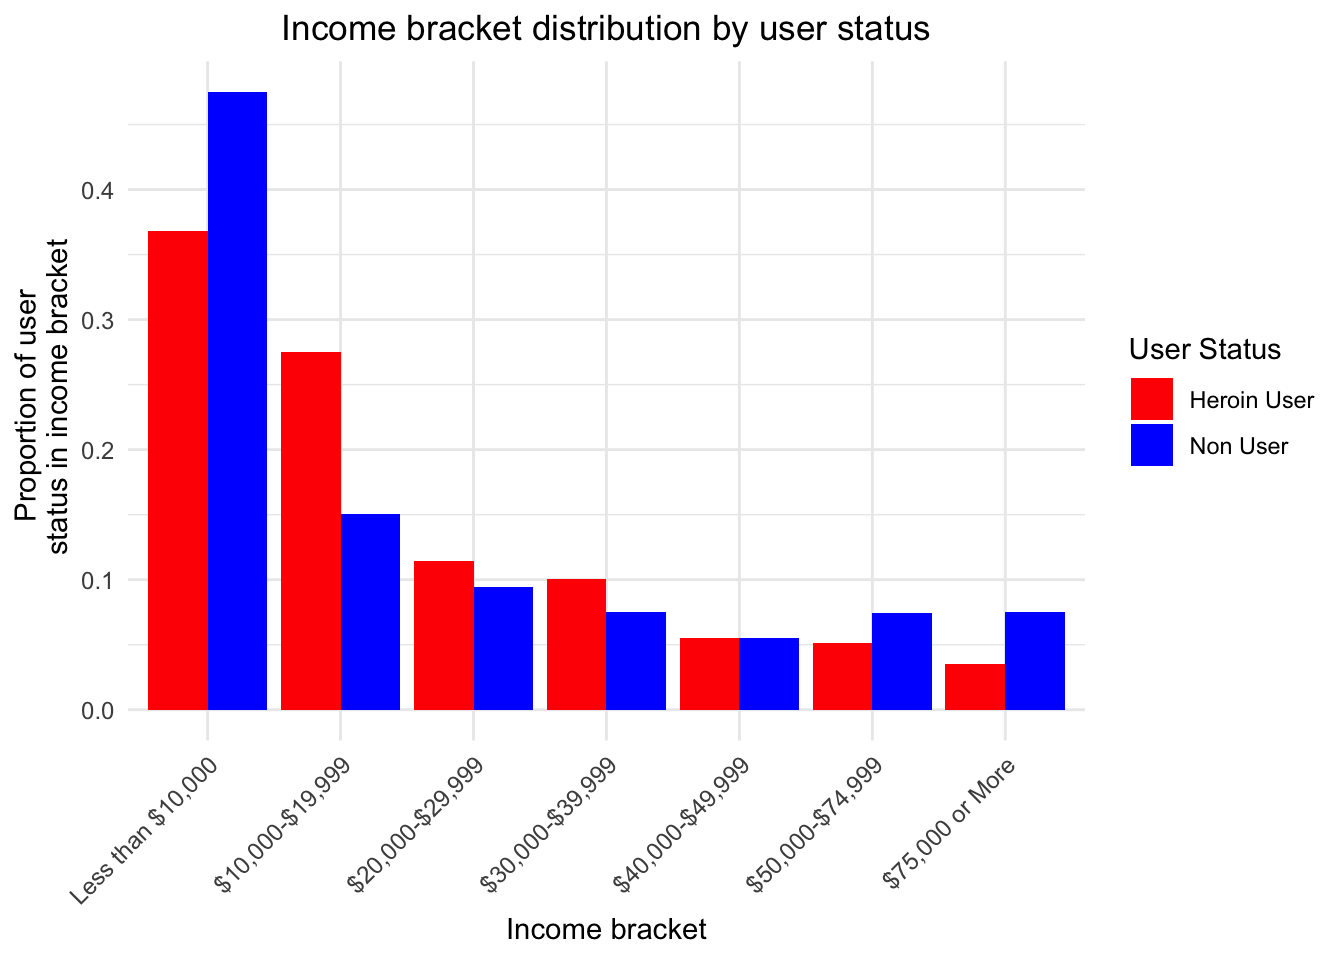
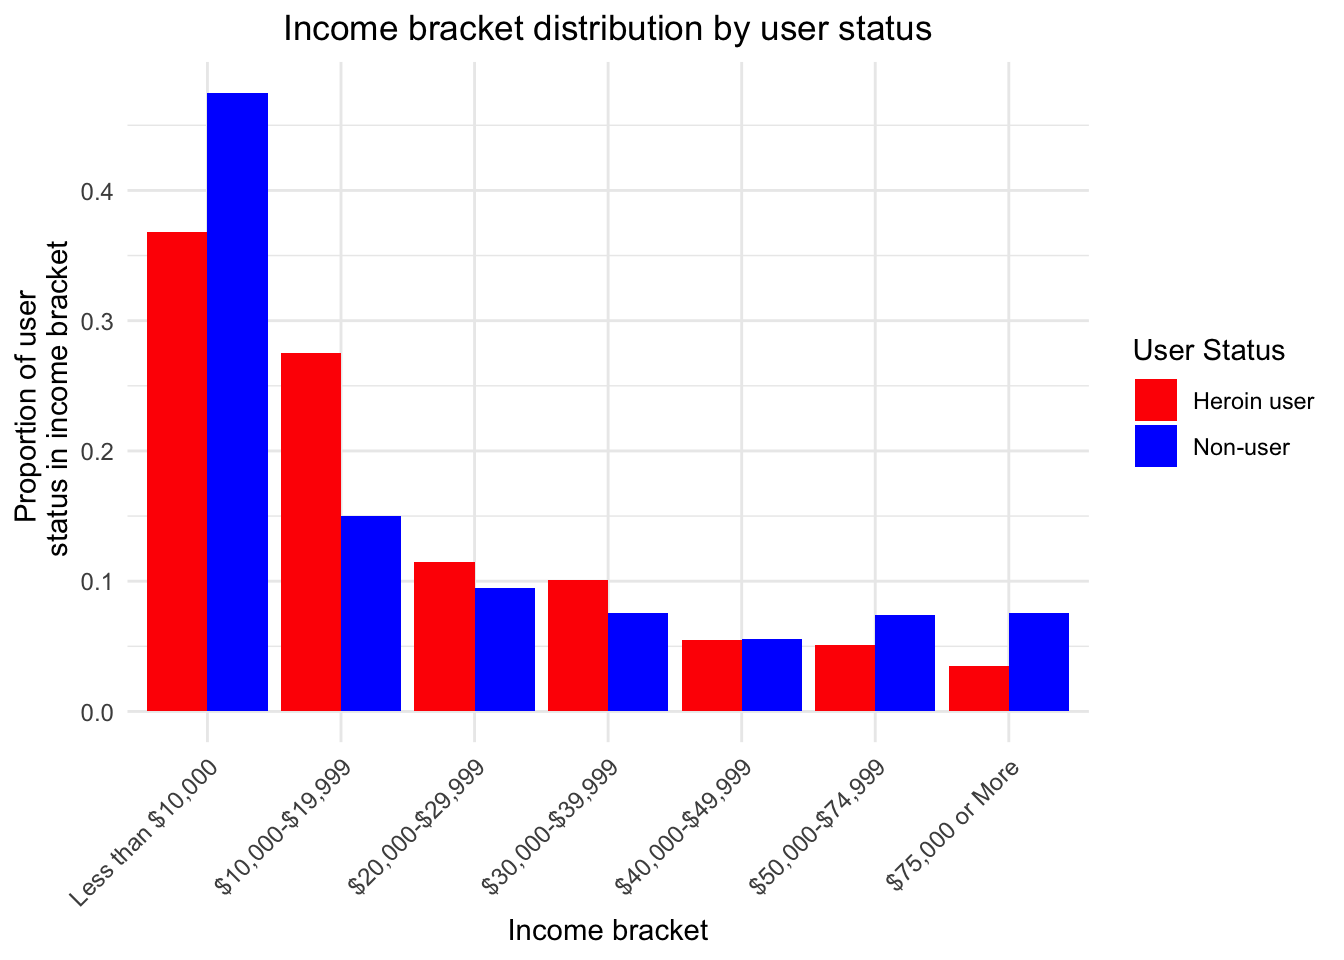
regenerate figs

diff --git a/bar_graphs.html b/bar_graphs.html
@@ -1,12 +1,12 @@
 <!DOCTYPE html>
 
-<html xmlns="http://www.w3.org/1999/xhtml">
+<html>
 
 <head>
 
 <meta charset="utf-8" />
-<meta http-equiv="Content-Type" content="text/html; charset=utf-8" />
 <meta name="generator" content="pandoc" />
+<meta http-equiv="X-UA-Compatible" content="IE=EDGE" />
 
 
 
@@ -84,7 +84,6 @@ code {
 }
 img {
   max-width:100%;
-  height: auto;
 }
 .tabbed-pane {
   padding-top: 12px;
@@ -233,6 +232,7 @@ $(document).ready(function () {
   border: none;
   display: inline-block;
   border-radius: 4px;
+  background-color: transparent;
 }
 
 .tabset-dropdown > .nav-tabs.nav-tabs-open > li {
@@ -244,18 +244,6 @@ $(document).ready(function () {
   display: none;
 }
 </style>
-
-<script>
-$(document).ready(function () {
-  window.buildTabsets("TOC");
-});
-
-$(document).ready(function () {
-  $('.tabset-dropdown > .nav-tabs > li').click(function () {
-    $(this).parent().toggleClass('nav-tabs-open')
-  });
-});
-</script>
 
 <!-- code folding -->
 
@@ -321,11 +309,11 @@ $(document).ready(function () {
 
 <div id="introduction" class="section level2">
 <h2>Introduction</h2>
-<p>In this analysis, we<a href="#fn1" class="footnoteRef" id="fnref1"><sup>1</sup></a> were interested in exploring how income changes with heroin use. We used the National Survey on Drug Use and Health <a href="#fn2" class="footnoteRef" id="fnref2"><sup>2</sup></a> as a source for data on self-reported heroin use and self-reported income bracket<a href="#fn3" class="footnoteRef" id="fnref3"><sup>3</sup></a>. Because these data are self-reported, any inference should be treated with caution.</p>
+<p>In this analysis, we<a href="#fn1" class="footnote-ref" id="fnref1"><sup>1</sup></a> were interested in exploring how income changes with heroin use. We used the National Survey on Drug Use and Health <a href="#fn2" class="footnote-ref" id="fnref2"><sup>2</sup></a> as a source for data on self-reported heroin use and self-reported income bracket<a href="#fn3" class="footnote-ref" id="fnref3"><sup>3</sup></a>. Because these data are self-reported, any inference should be treated with caution.</p>
 </div>
 <div id="data" class="section level2">
 <h2>Data</h2>
-<p>The data are from the National Survey on Drug Use and Health , which is conducted annually by the Substance Abuse and Mental Health Services Administration (SAMHSA), an agency in the U.S. Department of Health and Human Services (DHHS). More information about this survey can be found at <a href="http://www.icpsr.umich.edu/icpsrweb/ICPSR/series/64">ICPSR’s data archive page</a>.</p>
+<p>The data are from the National Survey on Drug Use and Health, which is conducted annually by the Substance Abuse and Mental Health Services Administration (SAMHSA), an agency in the U.S. Department of Health and Human Services (HHS). More information about this survey can be found at <a href="http://www.icpsr.umich.edu/icpsrweb/ICPSR/series/64">ICPSR’s data archive page</a>.</p>
 <pre class="r"><code># Libraries
 library(tidyverse)
 library(forcats)
@@ -333,7 +321,7 @@ library(gridExtra)
 library(ggpubr)
 
 # Data
-load(&quot;36361-0001-Data.rda&quot;) # available in the github repo
+load(&quot;data/36361-0001-Data.rda&quot;) # available in the github repo
 data &lt;- da36361.0001
 remove(da36361.0001)</code></pre>
 </div>
@@ -341,36 +329,31 @@ remove(da36361.0001)</code></pre>
 <h2>Data Manipulation</h2>
 <p>We excluded anyone that did not respond to the income or heroin-use questions.</p>
 <pre class="r"><code>#Defining user status
-heroin_user &lt;- filter(data, HEREVER == &quot;(1) Yes&quot;)
-non_user &lt;- filter(data, HEREVER == &quot;(2) No&quot;)
 
-#Combining data
-heroin_user$user_status &lt;- &quot;Heroin User&quot;
-non_user$user_status &lt;- &quot;Non User&quot;
-combined_data &lt;- rbind(heroin_user,non_user)
-
-# Take percentages in each income bracket across heroin status
-summary_data_non_user &lt;- summarize(group_by(non_user, IRPINC3, user_status),
-                                count=n())
-summary_data_non_user$percent &lt;- summary_data_non_user$count/sum(summary_data_non_user$count)
-
-summary_data_heroin_user &lt;- summarize(group_by(heroin_user, IRPINC3, user_status),
-                                  count=n())
-summary_data_heroin_user$percent &lt;- summary_data_heroin_user$count/sum(summary_data_heroin_user$count)
-
-summary_data &lt;- rbind(summary_data_non_user, summary_data_heroin_user)</code></pre>
+combined_data &lt;- data %&gt;% 
+  filter(!is.na(HEREVER)) %&gt;%   # remove NAs
+  mutate(user = if_else(HEREVER == &quot;(1) Yes&quot;, 1, 0),
+         non_user = if_else(HEREVER == &quot;(2) No&quot;, &#39;Non-user&#39;, &#39;Heroin user&#39;)) %&gt;% # create a new boolean value for use
+  group_by(IRPINC3, user, non_user) %&gt;%   # first take the sum in each cell
+  select(user, non_user, IRPINC3) %&gt;% 
+  summarize(count = n())</code></pre>
+<pre><code>## `summarise()` regrouping output by &#39;IRPINC3&#39;, &#39;user&#39; (override with `.groups` argument)</code></pre>
+<pre class="r"><code>summary_by_income &lt;- combined_data %&gt;% 
+  ungroup() %&gt;% 
+  group_by(user, non_user) %&gt;%      # then regroup to take the mean across income
+  mutate(p = count / sum(count))</code></pre>
 <p>We first classified our participants by their response to the question “Have you ever used heroin?” A participant who responded <code>(1) Yes</code> is categorized as a <code>heroin_user</code> and a participant who responded <code>(2) No</code> is categorized as a <code>non_user</code>. We then found the percentage of total heroin users and non-users in each income bracket.</p>
 </div>
 <div id="visual-display" class="section level2">
 <h2>Visual Display</h2>
 <pre class="r"><code>#Side-by-Side Bar Plot
-ggplot(summary_data)+
+ggplot(summary_by_income)+
     labs(title = &quot;Income bracket distribution by user status&quot;,
        x=&quot;Income bracket&quot;, 
        y= &quot;Proportion of user \n status in income bracket&quot;)+
   geom_bar(aes(x=IRPINC3,
-               fill=user_status,
-               y=percent),
+               fill=as.factor(non_user),
+               y=p),
            position=&quot;dodge&quot;,
            stat=&quot;identity&quot;)+ 
   scale_fill_manual(values=rep(c(&quot;red&quot;,&quot;blue&quot;)),
@@ -382,8 +365,8 @@ ggplot(summary_data)+
         axis.text.y=element_text(size = 9))</code></pre>
 <p><img src="bar_graphs_files/figure-html/side_by_side-1.png" width="672" /></p>
 <pre class="r"><code>#Stacked bar plot
-ggplot(combined_data)+
-  geom_bar(aes(x=user_status,fill=IRPINC3),position=&quot;fill&quot;)+
+ggplot(summary_by_income, aes(x=as.factor(non_user),fill = IRPINC3, y = p))+
+  geom_bar(position=&quot;fill&quot;, stat=&quot;identity&quot;)+
   scale_fill_brewer(palette=&quot;RdYlBu&quot;,direction=1,
                     name=&quot;Income Bracket&quot;)+
   labs(x=&quot;&quot;,y=&quot;Proportion per income bracket \n by user status&quot;,
@@ -392,20 +375,18 @@ ggplot(combined_data)+
   theme_minimal()</code></pre>
 <p><img src="bar_graphs_files/figure-html/stacked_bar_plot-1.png" width="672" /></p>
 <pre class="r"><code>#Bar Chart
-bar_chart_heroin_user &lt;- 
-  ggplot(heroin_user)+
-  geom_bar(aes(x=IRPINC3,fill=IRPINC3))+
+bar_chart_heroin_user &lt;- ggplot(combined_data %&gt;% filter(non_user == &#39;Heroin user&#39;))+
+  geom_bar(aes(x=IRPINC3,fill=IRPINC3, y = count), stat = &#39;identity&#39;)+
   coord_flip()+
   labs(x=&#39;Heroin users&#39;, y=&#39;Number of respondents&#39;)+
   scale_fill_brewer(palette=&quot;RdYlBu&quot;,direction=1,
                     name=&quot;Income Level&quot;)+
   theme_minimal()
 
-bar_chart_non_user &lt;- 
-  ggplot(non_user)+
-  geom_bar(aes(x=IRPINC3, fill=IRPINC3))+
+bar_chart_non_user &lt;- ggplot(combined_data %&gt;% filter(non_user == &#39;Non-user&#39;))+
+  geom_bar(aes(x=IRPINC3,fill=IRPINC3, y = count), stat = &#39;identity&#39;)+
   coord_flip()+
-  labs(x=&#39;Non-users&#39;, y=&#39;Number of respondents&#39;)+
+  labs(x=&#39;Heroin users&#39;, y=&#39;Number of respondents&#39;)+
   scale_fill_brewer(palette=&quot;RdYlBu&quot;,direction=1,
                     name=&quot;Income Level&quot;)+
   theme_minimal()
@@ -422,9 +403,9 @@ ggarrange(bar_chart_heroin_user, bar_chart_non_user, nrow=2, common.legend = T) 
 <div class="footnotes">
 <hr />
 <ol>
-<li id="fn1"><p>This page is a revision of a lab originally completed with Evie Boland, Joshua Gatcke, and Miguel Ojeda.<a href="#fnref1">↩</a></p></li>
-<li id="fn2"><p>A brief summary of the survey and its methodology is available <a href="https://nsduhweb.rti.org/respweb/homepage.cfm">here</a> and the survey’s raw data for each of the last <span class="math inline">\(40\)</span> years are available <a href="https://www.icpsr.umich.edu/icpsrweb/ICPSR/series/64">here</a>.<a href="#fnref2">↩</a></p></li>
-<li id="fn3"><p>We use the variable <code>HEREVER</code> to determine self-reported heroin use and the variable <code>IRPINC3</code> determine income bracket. <code>HEREVER</code> is either “Yes”“,”No“, or”NA“”, and <code>IRPINC3</code> is split into seven brackets: less than $10,000, every $10,000 up to $50,000, from $50,000 to $75,000, and more than $75,000. A detailed description of all variables is available <a href="https://www.icpsr.umich.edu/icpsrweb/NAHDAP/studies/36361/variables">here</a><a href="#fnref3">↩</a></p></li>
+<li id="fn1"><p>This page is a revision of a lab originally completed with Evie Boland, Joshua Gatcke, and Miguel Ojeda.<a href="#fnref1" class="footnote-back">↩</a></p></li>
+<li id="fn2"><p>A brief summary of the survey and its methodology is available <a href="https://nsduhweb.rti.org/respweb/homepage.cfm">here</a> and the survey’s raw data for each of the last <span class="math inline">\(40\)</span> years are available <a href="https://www.icpsr.umich.edu/icpsrweb/ICPSR/series/64">here</a>.<a href="#fnref2" class="footnote-back">↩</a></p></li>
+<li id="fn3"><p>We use the variable <code>HEREVER</code> to determine self-reported heroin use and the variable <code>IRPINC3</code> determine income bracket. <code>HEREVER</code> is either “Yes”“,”No“, or”NA&quot;&quot;, and <code>IRPINC3</code> is split into seven brackets: less than $10,000, every $10,000 up to $50,000, from $50,000 to $75,000, and more than $75,000. A detailed description of all variables is available <a href="https://www.icpsr.umich.edu/icpsrweb/NAHDAP/studies/36361/variables">here</a><a href="#fnref3" class="footnote-back">↩</a></p></li>
 </ol>
 </div>
 
@@ -445,6 +426,23 @@ $(document).ready(function () {
 
 
 </script>
+
+<!-- tabsets -->
+
+<script>
+$(document).ready(function () {
+  window.buildTabsets("TOC");
+});
+
+$(document).ready(function () {
+  $('.tabset-dropdown > .nav-tabs > li').click(function () {
+    $(this).parent().toggleClass('nav-tabs-open')
+  });
+});
+</script>
+
+<!-- code folding -->
+
 
 <!-- dynamically load mathjax for compatibility with self-contained -->
 <script>

diff --git a/site_libs/navigation-1.1/codefolding.js b/site_libs/navigation-1.1/codefolding.js
@@ -17,13 +17,13 @@ window.initializeCodeFolding = function(show) {
   var currentIndex = 1;
 
   // select all R code blocks
-  var rCodeBlocks = $('pre.r, pre.python, pre.bash, pre.sql, pre.cpp, pre.stan, pre.julia');
+  var rCodeBlocks = $('pre.r, pre.python, pre.bash, pre.sql, pre.cpp, pre.stan, pre.julia, pre.foldable');
   rCodeBlocks.each(function() {
 
     // create a collapsable div to wrap the code in
     var div = $('<div class="collapse r-code-collapse"></div>');
-    if (show)
-      div.addClass('in');
+    show = (show || $(this).hasClass('fold-show')) && !$(this).hasClass('fold-hide');
+    if (show) div.addClass('in');
     var id = 'rcode-643E0F36' + currentIndex++;
     div.attr('id', id);
     $(this).before(div);
